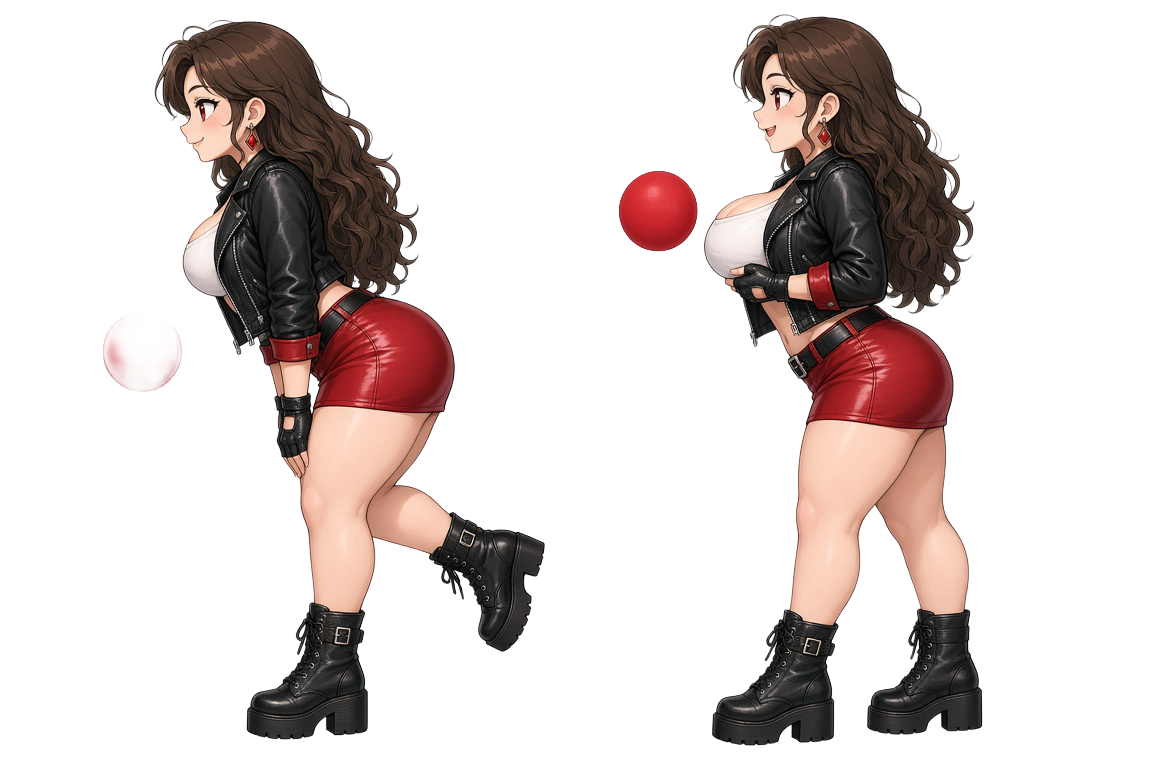
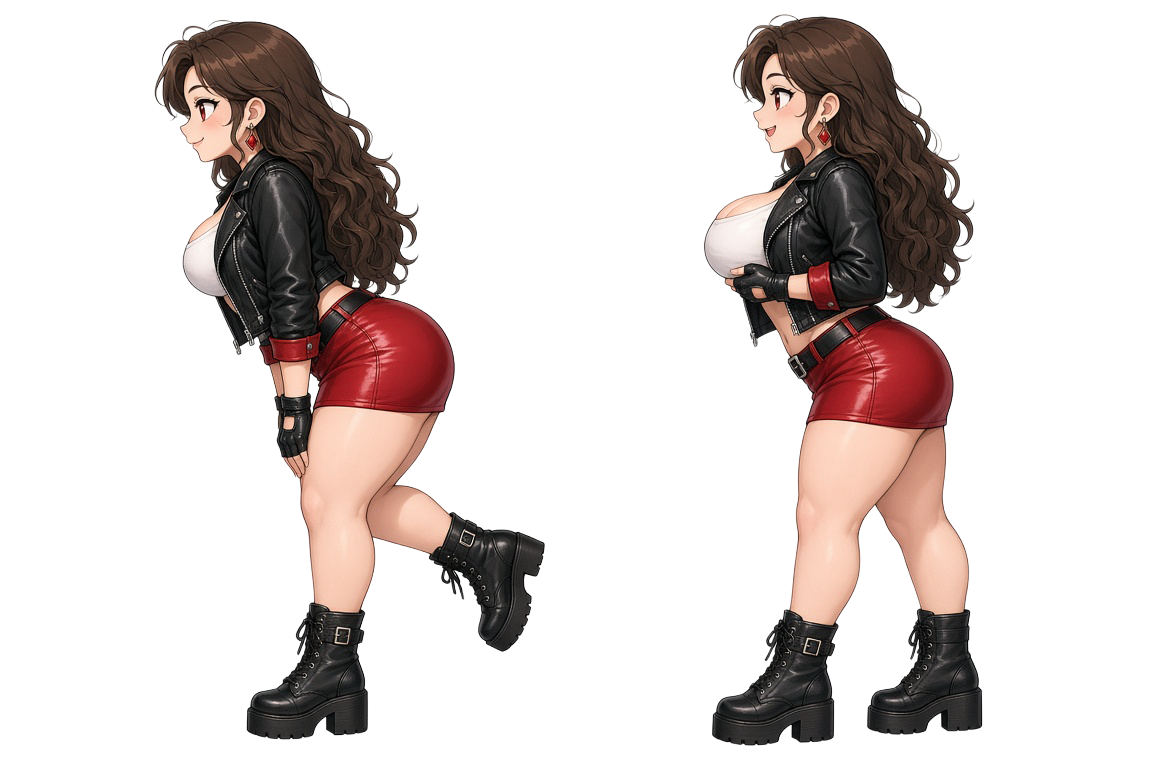
Replace original-named attack sheets with ball-free PNG assets

Changed region(s): [[0.524, 0.2143, 0.6164, 0.3367], [0.0925, 0.4286, 0.1541, 0.4898]]

diff --git a/gaia-detective-brawler/README.md b/gaia-detective-brawler/README.md
@@ -31,7 +31,7 @@
 - 인물 자산: `assets/gaia-detective/game`의 `hero_shy`, `enemy_barbari`, `enemy_bouncer`, `enemy_mohawk` 동일 Git blob을 별도 게임 경로에도 참조.
 - 소품: `assets/props/squat-fx/paddle-heart.webp`.
 - 생성 타일 아틀라스: `assets/gaia_tiles.webp` (원본 고해상도 PNG는 제작 산출물로 별도 보관).
-- `rozie_attack_prep.png` / `rozie_attack_hit.png`: 사용자 제공 원본의 보존용 복사본. 실제 MVP는 공을 제거한 `rozie_upper_prep.png`, `rozie_upper_hit.png`, `rozie_lower_prep.png`, `rozie_lower_hit.png`를 사용한다. `rozie_attack_*_clean.png`는 공을 제거한 전체 원본 시트.
+- `rozie_attack_prep.png` / `rozie_attack_hit.png`: **기존 파일명도 공 제거본으로 교체**했다. 업로드 원본은 GitHub 과거 커밋에서 복구 가능하다. 실제 MVP는 분리된 `rozie_upper_prep.png`, `rozie_upper_hit.png`, `rozie_lower_prep.png`, `rozie_lower_hit.png`를 사용한다. `rozie_attack_*_clean.png` 역시 공을 제거한 전체 시트다.
 - 골든퀘스트 참조: `Alix1211/ARPG` `src/town/town.js`의 무기 타격 범위/타이밍, `src/town/field_dungeon.js`의 경직·넉백, `src/town/dungeon.js`의 방 배치/통로 생성 개념. 원본 엔진을 통째로 붙인 것이 아니라 Canvas 벨트스크롤에 맞게 **새로 구현**함.
 
 ## 알려진 제한
